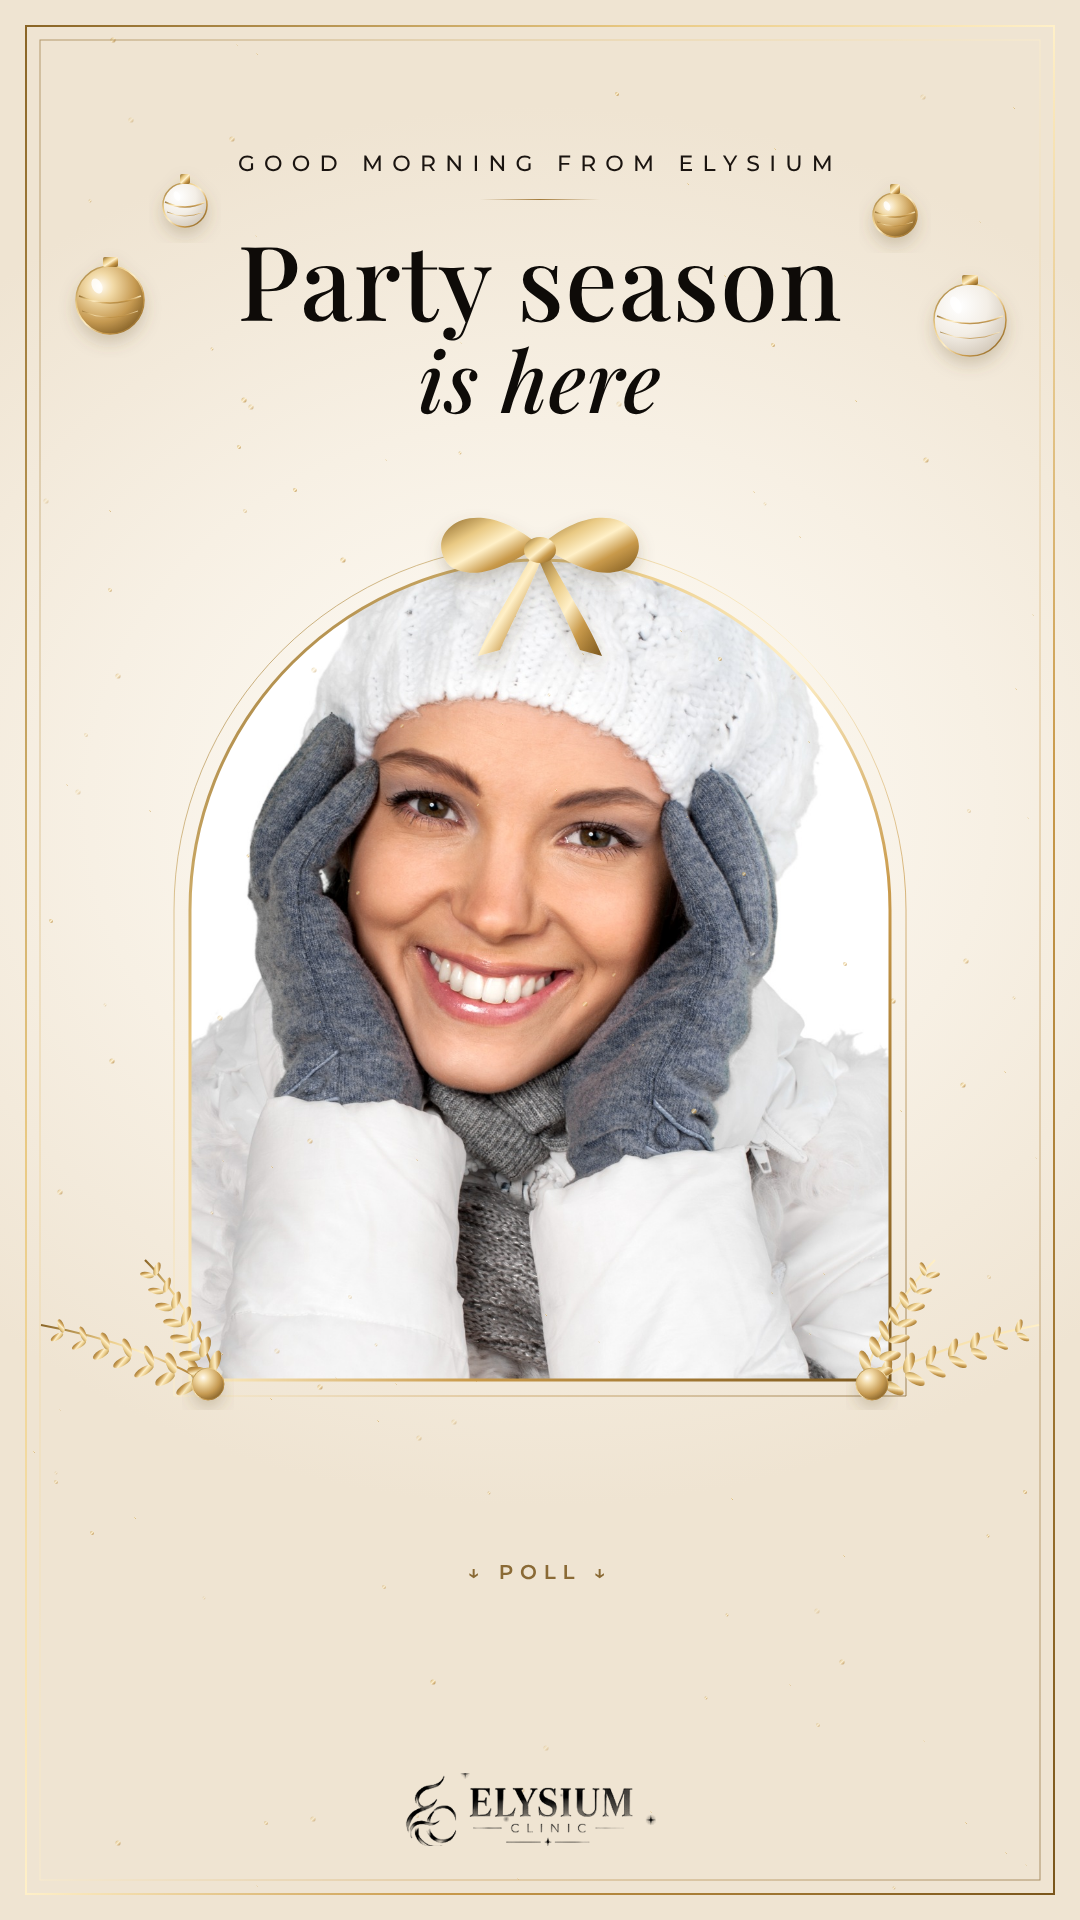
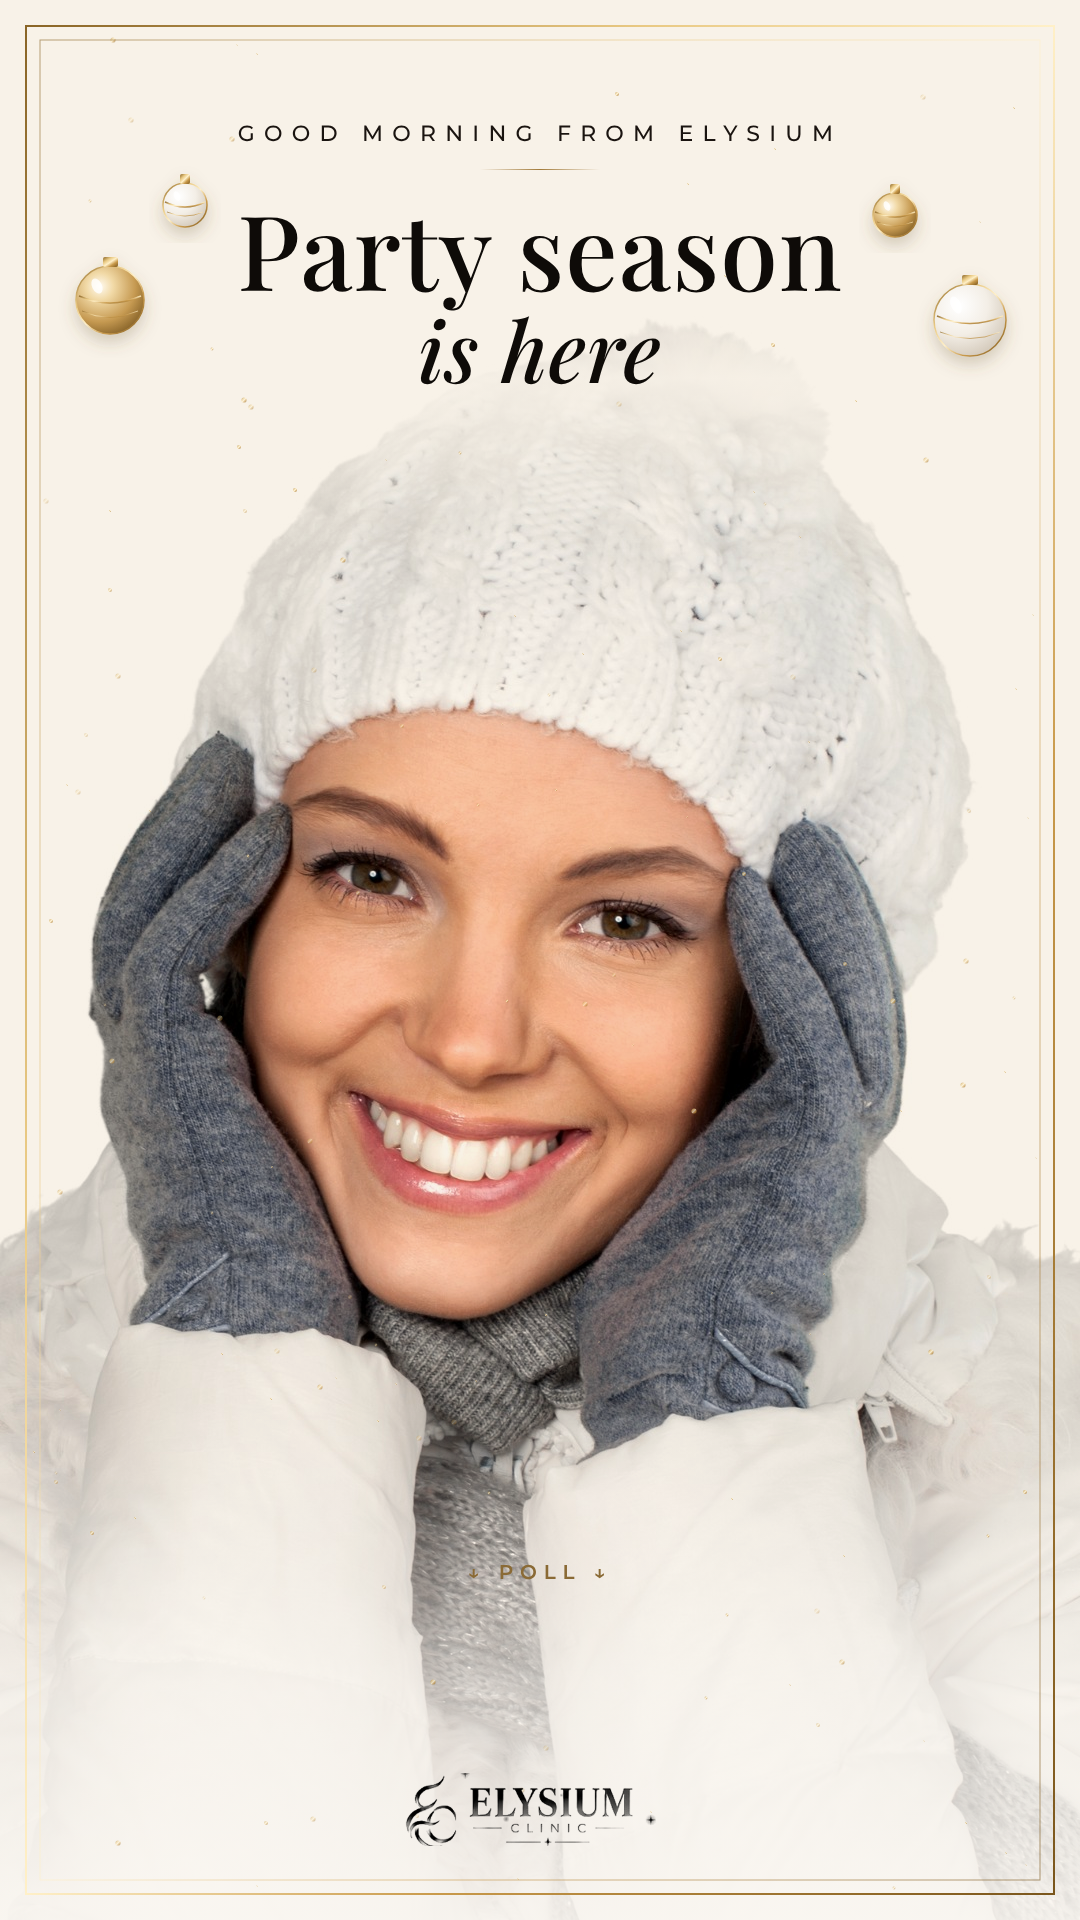
26.11: morning story photo as full background (luxury light style)
Claude-Session: https://claude.ai/code/session_01SaUhS5EeEBn7oMfuXG8zXf

diff --git a/posts_26_11/src/s1_lux.html b/posts_26_11/src/s1_lux.html
@@ -1,22 +1,24 @@
 <!doctype html><html lang="en"><head><meta charset="utf-8"><link href="https://fonts.googleapis.com/css2?family=Playfair+Display:ital,wght@0,500;0,600;0,700;1,500;1,600&family=Montserrat:wght@400;500;600;700&display=block" rel="stylesheet"><link rel="stylesheet" href="common.css"><style>
-.s{background:radial-gradient(ellipse 820px 700px at 50% 42%,#fffdf8 0%,#f7f0e4 55%,#efe4d2 100%)}
-.top{position:absolute;top:150px;left:0;right:0;text-align:center;color:#111}
+.s{background:#f8f2e8}
+.warm{position:absolute;left:0;right:0;top:300px;bottom:0;background:#f8f2e8;mix-blend-mode:multiply}
+.top{position:absolute;top:120px;left:0;right:0;text-align:center;color:#111}
 .k{font-size:22px;letter-spacing:.42em;font-weight:500;color:#1a1410}
 .k2{width:120px;height:1px;background:linear-gradient(90deg,transparent,#a37b3a,transparent);margin:22px auto 0}
 .h{font-family:'Playfair Display',serif;font-size:104px;font-weight:500;line-height:1;margin-top:26px;color:#0e0b08;letter-spacing:.01em}
 .h em{display:block;font-style:italic;font-weight:500;font-size:84px;color:#0e0b08;margin-top:6px}
-.arch{position:absolute;left:190px;top:560px;width:700px;height:820px;border-radius:350px 350px 0 0;overflow:hidden;background:#fff}
-.arch img{width:100%;height:100%;object-fit:cover;object-position:center 30%}
+.ph{position:absolute;left:0;right:0;top:300px;height:1620px;background:url(winter2.jpg) center top/1080px auto no-repeat}
+.fadeT{position:absolute;left:0;right:0;top:300px;height:260px;background:linear-gradient(180deg,rgba(248,242,232,0) 0%,rgba(248,242,232,.85) 30%,rgba(248,242,232,0) 100%)}
+.fadeB{position:absolute;left:0;right:0;bottom:0;height:520px;background:linear-gradient(0deg,rgba(250,247,242,.92) 0%,rgba(250,247,242,.7) 45%,rgba(250,247,242,0) 100%)}
 .sub{position:absolute;left:0;right:0;top:1420px;text-align:center;font-family:'Playfair Display',serif;font-style:italic;font-size:40px;color:#1a1410}
 .zone{position:absolute;left:0;right:0;text-align:center;font-size:20px;letter-spacing:.34em;color:#8a6a35;font-weight:600}
-.stk{position:absolute;left:170px;right:170px;top:1500px;background:#fff;border-radius:24px;padding:22px;font-family:-apple-system,Helvetica,Arial,sans-serif;text-align:center;box-shadow:0 10px 30px rgba(80,60,30,.25)}
+.stk{position:absolute;left:170px;right:170px;top:1440px;background:#fff;border-radius:24px;padding:22px;font-family:-apple-system,Helvetica,Arial,sans-serif;text-align:center;box-shadow:0 10px 30px rgba(80,60,30,.25)}
 .stk .qq{font-size:29px;font-weight:700;color:#111;margin-bottom:10px}
 .stk .o{border:2px solid #e6e6e6;border-radius:40px;padding:12px 22px;font-size:25px;font-weight:600;color:#222;margin-top:8px}
 .lg2{position:absolute;left:0;right:0;bottom:70px;text-align:center}
 .lg2 img{width:270px;filter:brightness(0) saturate(100%)}
 </style></head><body><div class="s">
-<div class="arch"><img src="winter2.jpg"></div>
-<img src="lux_decor.svg" style="position:absolute;inset:0;width:1080px;height:1920px">
+<div class="ph"></div><div class="warm"></div><div class="fadeT"></div><div class="fadeB"></div>
+<img src="lux_decor_bg.svg" style="position:absolute;inset:0;width:1080px;height:1920px">
 <div class="top"><div class="k">GOOD MORNING FROM ELYSIUM</div><div class="k2"></div><div class="h">Party season<em>is here</em></div></div>
 __STK__
 <div class="lg2"><img src="logo.png"></div></div></body></html>

diff --git a/posts_26_11/teksty.md b/posts_26_11/teksty.md
@@ -44,7 +44,7 @@ Results vary from person to person.
 ---
 
 ## STORY 1 (8:30): `story1_0830_party_poll.png`
-- Wersja luksusowa i jasna: tło kość słoniowa/szampan, czarny tekst i czarne logo, zdjęcie w złotym łuku ze złotą kokardą, złote bombki na nitkach i złote listki. „Good morning from Elysium · Party season is here”.
+- Wersja luksusowa i jasna: tło kość słoniowa/szampan, czarny tekst i czarne logo, zdjęcie jako pełne tło (bez ramki), złote i perłowe bombki na nitkach, złoty pył i cienka złota ramka. „Good morning from Elysium · Party season is here”.
 - **Naklejka Ankieta** w miejscu „POLL ↓”: „When is your Christmas party?”, odpowiedzi **This weekend 🥂 / Next week / Later in December**.
 - Każdej osobie, która zagłosuje, możesz odpisać, który zabieg pasuje do jej daty (jak w rolce).
 - Podgląd: `podglad_story1_ankieta.png`.
